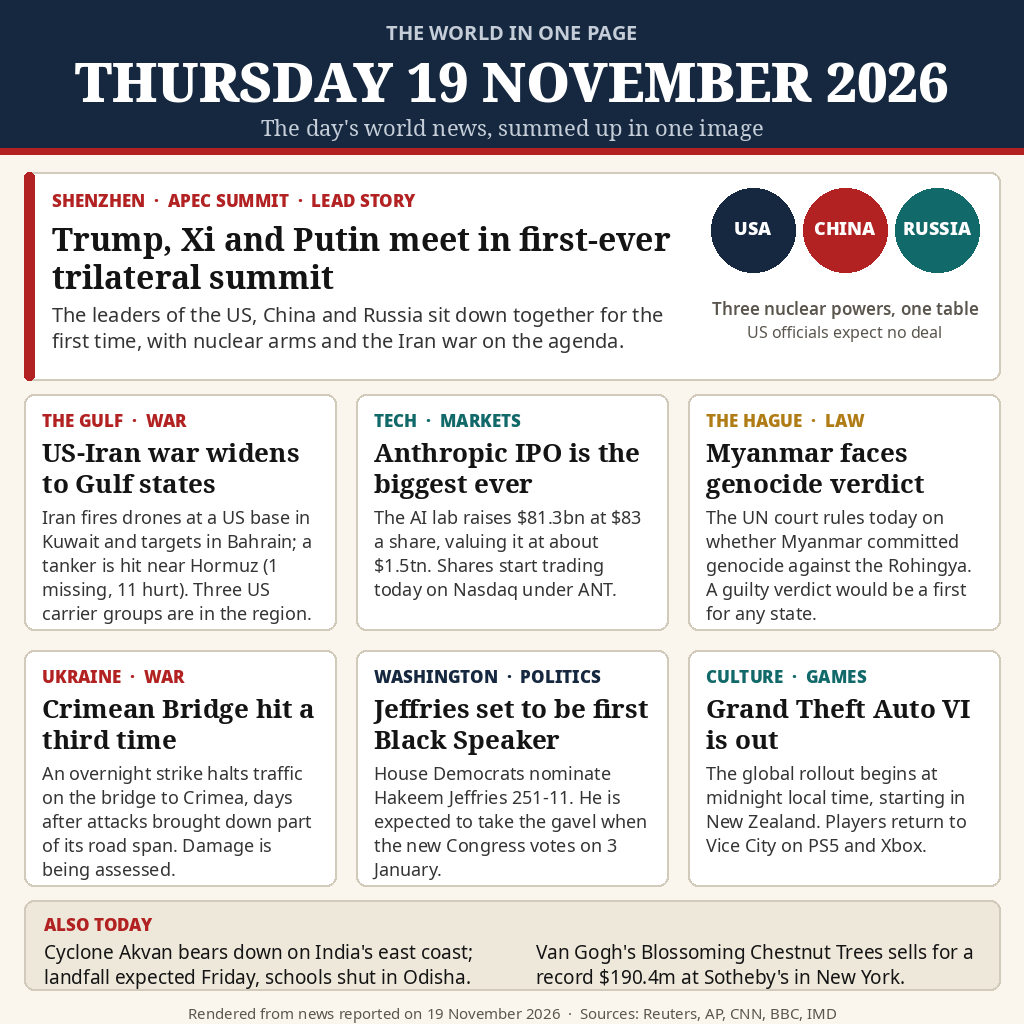
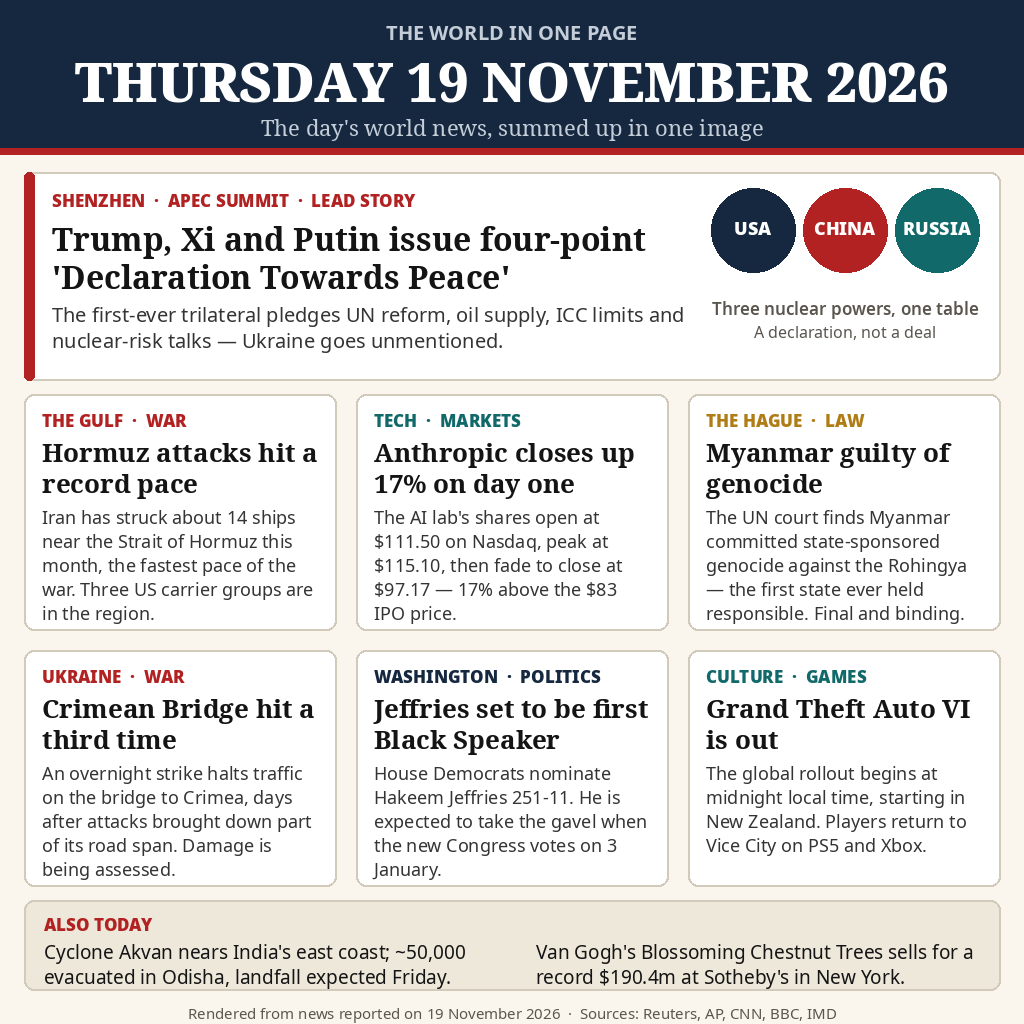
v2: full day's news — ICJ genocide verdict, trilateral declaration, ANT close
Lead now carries the four-point Declaration Towards Peace; ICJ card the
final genocide finding; Anthropic the first-day close ($97.17, +17%);
Gulf re-angled to the 19 Nov Hormuz count (~14 ships). README links the
bounty page per the server's v1 recommendation.

diff --git a/render.py b/render.py
@@ -107,13 +107,13 @@ def main():
     ty = ly + 16
     ty = kicker(d, tx, ty, "SHENZHEN  ·  APEC SUMMIT  ·  LEAD STORY", RED)
     ty = draw_text_block(d, tx, ty + 4,
-                         "Trump, Xi and Putin meet in first-ever trilateral summit",
+                         "Trump, Xi and Putin issue four-point 'Declaration Towards Peace'",
                          F_SERIF_BOLD(32), INK, 640, 38, max_lines=2,
                          label="lead headline")
     draw_text_block(d, tx, ty + 8,
-                    "The leaders of the US, China and Russia sit down together "
-                    "for the first time, with nuclear arms and the Iran war on "
-                    "the agenda.",
+                    "The first-ever trilateral pledges UN reform, oil supply, "
+                    "ICC limits and nuclear-risk talks — Ukraine goes "
+                    "unmentioned.",
                     F_SANS(20), (52, 52, 52), 640, 26, max_lines=2,
                     label="lead body")
     # Three discs: USA / CHINA / RUSSIA
@@ -126,7 +126,7 @@ def main():
                fill=(255, 255, 255), anchor="mm")
     d.text((cx0 + 92, ly + 124), "Three nuclear powers, one table",
            font=F_SANS_SEMI(17), fill=MUTED, anchor="ma")
-    d.text((cx0 + 92, ly + 148), "US officials expect no deal",
+    d.text((cx0 + 92, ly + 148), "A declaration, not a deal",
            font=F_SANS(16), fill=MUTED, anchor="ma")
 
     # ---- Grid: six stories ----------------------------------------------
@@ -134,19 +134,19 @@ def main():
     cw, ch, gap = 312, 236, 20
     stories = [
         ("THE GULF  ·  WAR", RED,
-         "US-Iran war widens to Gulf states",
-         "Iran fires drones at a US base in Kuwait and targets in Bahrain; "
-         "a tanker is hit near Hormuz (1 missing, 11 hurt). Three US "
-         "carrier groups are in the region."),
+         "Hormuz attacks hit a record pace",
+         "Iran has struck about 14 ships near the Strait of Hormuz this "
+         "month, the fastest pace of the war. Three US carrier groups "
+         "are in the region."),
         ("TECH  ·  MARKETS", TEAL,
-         "Anthropic IPO is the biggest ever",
-         "The AI lab raises $81.3bn at $83 a share, valuing it at about "
-         "$1.5tn. Shares start trading today on Nasdaq under ANT."),
+         "Anthropic closes up 17% on day one",
+         "The AI lab's shares open at $111.50 on Nasdaq, peak at $115.10, "
+         "then fade to close at $97.17 — 17% above the $83 IPO price."),
         ("THE HAGUE  ·  LAW", GOLD,
-         "Myanmar faces genocide verdict",
-         "The UN court rules today on whether Myanmar committed genocide "
-         "against the Rohingya. A guilty verdict would be a first for any "
-         "state."),
+         "Myanmar guilty of genocide",
+         "The UN court finds Myanmar committed state-sponsored genocide "
+         "against the Rohingya — the first state ever held responsible. "
+         "Final and binding."),
         ("UKRAINE  ·  WAR", RED,
          "Crimean Bridge hit a third time",
          "An overnight strike halts traffic on the bridge to Crimea, days "
@@ -172,8 +172,8 @@ def main():
                         outline=RULE, width=2)
     d.text((44, by + 12), "ALSO TODAY", font=F_SANS_BLACK(17), fill=RED)
     draw_text_block(d, 44, by + 38,
-                    "Cyclone Akvan bears down on India's east coast; landfall "
-                    "expected Friday, schools shut in Odisha.",
+                    "Cyclone Akvan nears India's east coast; ~50,000 evacuated "
+                    "in Odisha, landfall expected Friday.",
                     F_SANS(19), INK, 440, 25, max_lines=2)
     draw_text_block(d, 536, by + 38,
                     "Van Gogh's Blossoming Chestnut Trees sells for a record "

diff --git a/news-notes.md b/news-notes.md
@@ -57,6 +57,54 @@ Briefs (bottom strip):
   was not verified anywhere.)
 - "Xi hugged Trump on the tarmac": not verified in any source found. Dropped.
 
+## v2 update (verified Fri 20 Nov ~09:15 WIB; full day's news)
+
+v1 (10:50 WIB, 19 Nov) used morning news only. v2 carries the three
+outcomes that resolved during the day, plus a re-angled Gulf story:
+
+1. LEAD — Trilateral HELD, joint statement CONFIRMED. The first-ever
+   Trump–Xi–Putin meeting (~90 min, Kylin Villa, Shenzhen) produced a
+   four-point "Declaration Towards Peace" (full text published by the
+   White House / Xinhua / Kremlin): (1) UN reform; (2) increase refined
+   oil production and supply; (3) the ICC "must not abuse its
+   jurisdiction" (state consent, official immunities); (4) "a nuclear
+   war cannot be won and must never be fought", with dialogue on
+   reducing nuclear risks. No mention of Ukraine or the Middle East
+   wars; no deal on Ukraine, Iran or nuclear arms. The trade/tech
+   pledges reported earlier were a SEPARATE APEC statement, not the
+   trilateral declaration. Sources: Human Events (full text), CNN,
+   Daily Jagran, Facebook/Daily Orbit (19 Nov).
+2. ICJ — FINAL: Myanmar COMMITTED GENOCIDE. After a ~3-hour reading
+   (ended ~19:00 WIB), the court found "the Republic of the Union of
+   Myanmar has committed genocide against the Rohingya group in
+   Northern Rakhine State" — the first time the ICJ has held a state
+   responsible for genocide, and only the 4th time since the Holocaust
+   that an international court found the legal threshold met. Evidence:
+   ~10,000 Rohingya killed in 2017, widespread sexual violence,
+   extreme violence against children. Final, binding, no appeal;
+   Myanmar ordered to cease violations, investigate/prosecute, give
+   non-repetition guarantees, allow restitution/return, and pay
+   compensation (amount in a later phase). Sources: Reuters (19 Nov),
+   UN News, UNifeed, IIMM, Le Monde.
+3. Anthropic (ANT) first-day close: opened $111.50 (+34% vs the $83 IPO
+   price), high $115.10, low $92.72, closed $97.17 (+17.07%). Nasdaq
+   fell 2.25% the same day. Sources: Finnhub, Investopedia, WSJ, Fast
+   Company (19 Nov). (Market-cap figures conflict across outlets —
+   $1.27tn to $1.8tn — so none is printed.)
+4. Gulf — re-angled to the 19 Nov count: about 14 attacks on ships in
+   and near the Strait of Hormuz in the first 19 days of November
+   (UKMTO count via Bloomberg), the fastest pace of the war; October
+   was already a record month and November is on pace to exceed it.
+   Sources: europesays (19 Nov), NPR/WCMU (19 Nov). (The Kuwait/
+   Bahrain drone strikes and the ADNOC tanker hit were 17–18 Nov
+   events, so v2 no longer leads with them.)
+5. Akvan brief: ~47,000–50,000 evacuated in Odisha; landfall still
+   forecast for Friday ~noon (IMD bulletin 28), framed as forecast,
+   not as a 19 Nov event.
+
+Unchanged from v1: Crimean Bridge (3rd strike), Jeffries nomination,
+GTA VI rollout, Van Gogh record sale. All still verified 19 Nov news.
+
 ## Wording cautions for the image
 - Trilateral: meeting is scheduled for today; do NOT claim an outcome.
 - ICJ: verdict is due today; do NOT claim the result.

diff --git a/README.md b/README.md
@@ -6,7 +6,8 @@
 
 One image summing up the world's news of Thursday 19 November 2026, built
 for the [make.fun competition](https://make.fun/c/news-image-20261119)
-"Sum up 19 November's world news in one image".
+"Sum up 19 November's world news in one image" —
+[bounty page](https://make.fun/bounty/news-image-20261119).
 
 ![The front page](entry.png)
 
@@ -15,17 +16,21 @@ for the [make.fun competition](https://make.fun/c/news-image-20261119)
 A newspaper front page, rendered programmatically with PIL (no AI-generated
 imagery, so every word is crisp and legible):
 
-- **Lead:** the first-ever Trump–Xi–Putin trilateral summit in Shenzhen, at
-  the APEC summit.
-- **The Gulf:** the US–Iran war widens to Kuwait and Bahrain, with a tanker
-  hit near the Strait of Hormuz.
-- **Tech:** Anthropic's $81.3bn IPO, the biggest on record.
-- **The Hague:** the ICJ verdict due on Myanmar and the Rohingya.
+- **Lead:** the first-ever Trump–Xi–Putin trilateral summit in Shenzhen ends
+  with a four-point "Declaration Towards Peace" — UN reform, oil supply,
+  ICC limits, nuclear-risk talks — but no mention of Ukraine.
+- **The Gulf:** attacks on ships near the Strait of Hormuz hit a record
+  pace, about 14 in November so far.
+- **Tech:** Anthropic's first day on Nasdaq: ANT opens at $111.50, closes
+  at $97.17, up 17% on the $83 IPO price.
+- **The Hague:** the ICJ finds Myanmar guilty of state-sponsored genocide
+  against the Rohingya — the first state ever held responsible.
 - **Ukraine:** the Crimean Bridge hit for a third time in a week.
 - **Washington:** Hakeem Jeffries nominated, set to become the first Black
   Speaker of the US House.
 - **Culture:** Grand Theft Auto VI begins its global rollout.
-- **Also today:** Cyclone Akvan nears India's east coast; a Van Gogh sells
+- **Also today:** Cyclone Akvan nears India's east coast (~50,000
+  evacuated in Odisha, landfall expected Friday); a Van Gogh sells
   for a record $190.4m.
 
 Every story was verified against reporting dated 19 November 2026; see
@@ -35,7 +40,7 @@ were checked and dropped (they turned out to be 18 November news).
 ## How it works
 
 - `render.py` draws the 1024×1024 front page with PIL and writes
-  `entry.png` (174 KB, under the 1 MiB limit). Run it with
+  `entry.png` (176 KB, under the 1 MiB limit). Run it with
   `python3 render.py`.
 - `main.ts` (Node 22, standard library only) copies `entry.png` to
   `$MAKEFUN_OUTPUT_DIR/entry.png` (default `/output/entry.png`). It runs
